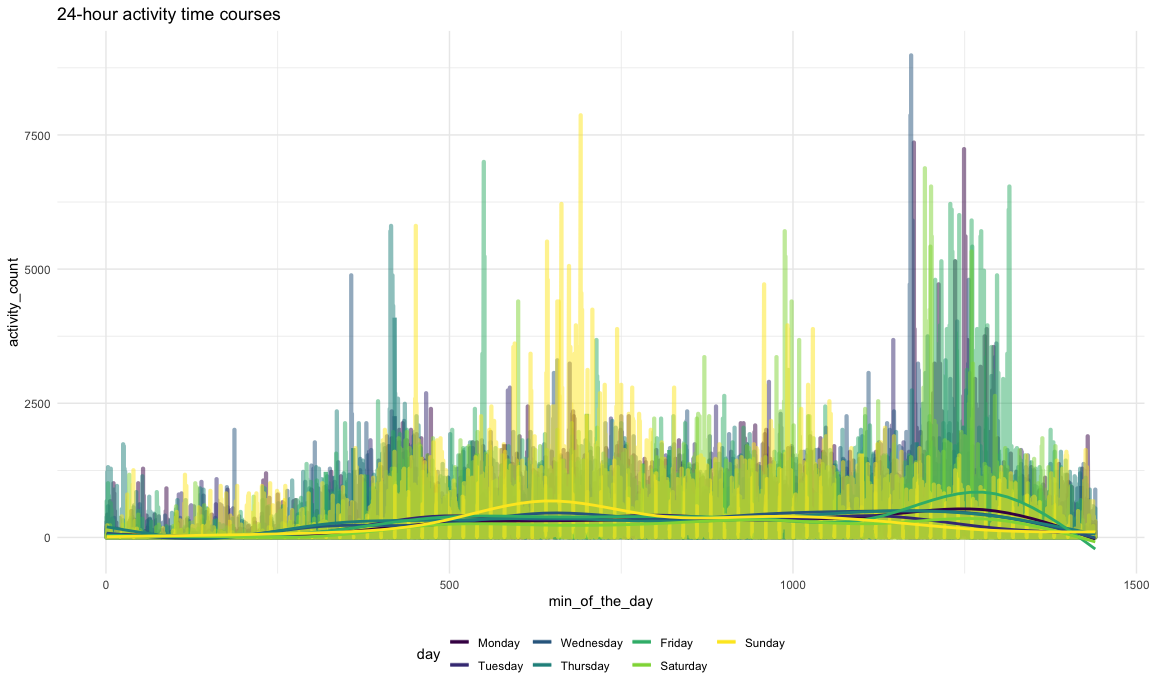
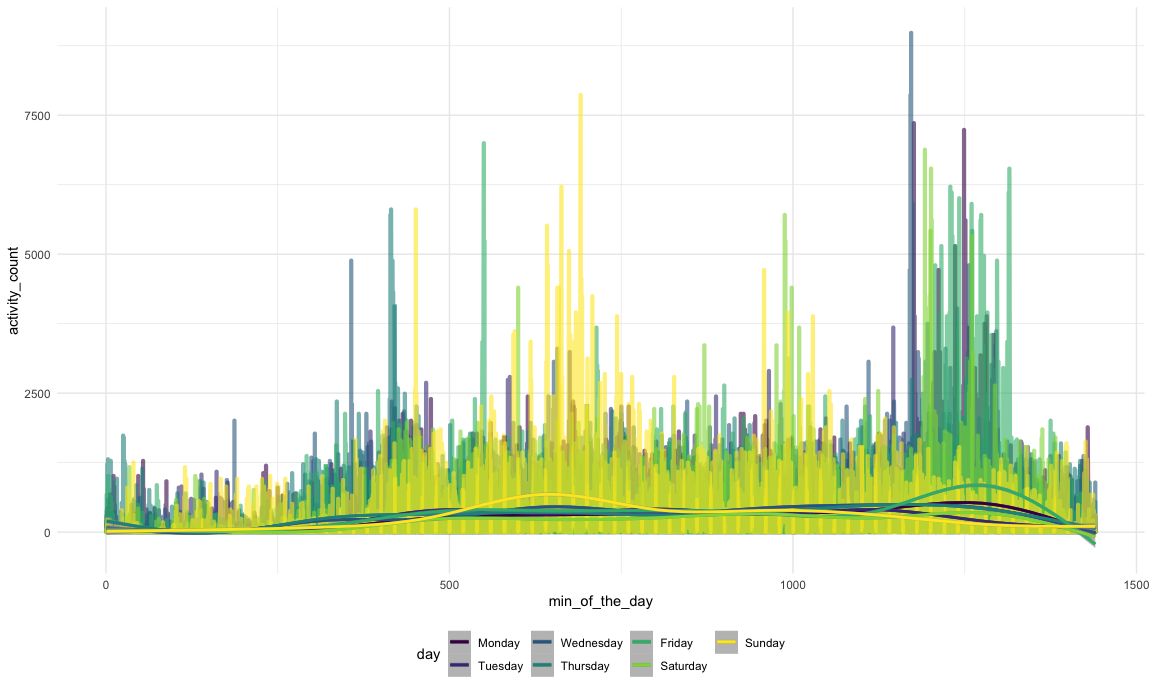
problem 3: plotting

diff --git a/p8105_hw3_lmt2203.md b/p8105_hw3_lmt2203.md
@@ -7,14 +7,14 @@ Linh Tran
 library(tidyverse)
 ```
 
-    ## ── Attaching packages ───────────────────────────────────────────────────────────────────────────────────────────────────────── tidyverse 1.3.0 ──
+    ## ── Attaching packages ────────────────────────────────────────────────────────────────────────────────────────── tidyverse 1.3.0 ──
 
     ## ✓ ggplot2 3.3.2     ✓ purrr   0.3.4
     ## ✓ tibble  3.0.3     ✓ dplyr   1.0.2
     ## ✓ tidyr   1.1.2     ✓ stringr 1.4.0
     ## ✓ readr   1.3.1     ✓ forcats 0.5.0
 
-    ## ── Conflicts ──────────────────────────────────────────────────────────────────────────────────────────────────────────── tidyverse_conflicts() ──
+    ## ── Conflicts ───────────────────────────────────────────────────────────────────────────────────────────── tidyverse_conflicts() ──
     ## x dplyr::filter() masks stats::filter()
     ## x dplyr::lag()    masks stats::lag()
 
@@ -176,7 +176,7 @@ accel_df = read_csv("./data/accel_data.csv") %>%
     values_to = "activity_count"
   ) %>% 
   mutate(day = factor(day),
-         day = fct_relevel(day, c("Monday", "Tuesday", "Wednesday", "Thursday", "Friday", "Saturday", "Sunday"))) %>% 
+         day = forcats::fct_relevel(day, c("Monday", "Tuesday", "Wednesday", "Thursday", "Friday", "Saturday", "Sunday"))) %>% 
   mutate(wd_or_wknd = case_when(
         day %in% c("Monday", "Tuesday", "Wednesday", "Thursday", "Friday") ~ "weekday",
         day %in% c("Saturday", "Sunday") ~ "weekend",
@@ -214,83 +214,84 @@ accel_df
     ## 10     1      1 Friday             10           43.0 weekday   
     ## # … with 50,390 more rows
 
-#### Aggregate across minutes to create a total activity variable for each day, and create a table showing these totals. Any trends?
+The dataset contains 50400 observations of 6 variables, including
+*week*, *day\_id*, *min\_of\_the\_day* show each minute of the day for
+the 5 weeks that data were collected, *activity\_count* for each minute,
+and *wd\_or\_wknd* variable that tells you if a given day is weekday or
+weekend.
 
-``` r
-total_activity_table = 
-  accel_df %>% 
-  group_by(week, day_id, day) %>% 
-  summarize(total_activity_each_day = sum(activity_count)) %>% 
-  knitr::kable()
-```
-
-    ## `summarise()` regrouping output by 'week', 'day_id' (override with `.groups` argument)
+#### Table showing total activity for each day of the 5 weeks
 
 ``` r
 accel_df %>% 
-  group_by(week, day_id, day) %>% 
+  group_by(week, day) %>% 
   summarize(total_activity_each_day = sum(activity_count)) %>% 
   pivot_wider(
     names_from = day,
     values_from = total_activity_each_day) %>% 
-   knitr::kable(digit = 1)
+   knitr::kable(digit = 1) 
 ```
 
-    ## `summarise()` regrouping output by 'week', 'day_id' (override with `.groups` argument)
+    ## `summarise()` regrouping output by 'week' (override with `.groups` argument)
 
-| week | day\_id |   Friday |   Monday | Saturday | Sunday | Thursday |  Tuesday | Wednesday |
-| ---: | ------: | -------: | -------: | -------: | -----: | -------: | -------: | --------: |
-|    1 |       1 | 480542.6 |       NA |       NA |     NA |       NA |       NA |        NA |
-|    1 |       2 |       NA |  78828.1 |       NA |     NA |       NA |       NA |        NA |
-|    1 |       3 |       NA |       NA |   376254 |     NA |       NA |       NA |        NA |
-|    1 |       4 |       NA |       NA |       NA | 631105 |       NA |       NA |        NA |
-|    1 |       5 |       NA |       NA |       NA |     NA | 355923.6 |       NA |        NA |
-|    1 |       6 |       NA |       NA |       NA |     NA |       NA | 307094.2 |        NA |
-|    1 |       7 |       NA |       NA |       NA |     NA |       NA |       NA |    340115 |
-|    2 |       8 | 568839.0 |       NA |       NA |     NA |       NA |       NA |        NA |
-|    2 |       9 |       NA | 295431.0 |       NA |     NA |       NA |       NA |        NA |
-|    2 |      10 |       NA |       NA |   607175 |     NA |       NA |       NA |        NA |
-|    2 |      11 |       NA |       NA |       NA | 422018 |       NA |       NA |        NA |
-|    2 |      12 |       NA |       NA |       NA |     NA | 474048.0 |       NA |        NA |
-|    2 |      13 |       NA |       NA |       NA |     NA |       NA | 423245.0 |        NA |
-|    2 |      14 |       NA |       NA |       NA |     NA |       NA |       NA |    440962 |
-|    3 |      15 | 467420.0 |       NA |       NA |     NA |       NA |       NA |        NA |
-|    3 |      16 |       NA | 685910.0 |       NA |     NA |       NA |       NA |        NA |
-|    3 |      17 |       NA |       NA |   382928 |     NA |       NA |       NA |        NA |
-|    3 |      18 |       NA |       NA |       NA | 467052 |       NA |       NA |        NA |
-|    3 |      19 |       NA |       NA |       NA |     NA | 371230.0 |       NA |        NA |
-|    3 |      20 |       NA |       NA |       NA |     NA |       NA | 381507.0 |        NA |
-|    3 |      21 |       NA |       NA |       NA |     NA |       NA |       NA |    468869 |
-|    4 |      22 | 154049.0 |       NA |       NA |     NA |       NA |       NA |        NA |
-|    4 |      23 |       NA | 409450.0 |       NA |     NA |       NA |       NA |        NA |
-|    4 |      24 |       NA |       NA |     1440 |     NA |       NA |       NA |        NA |
-|    4 |      25 |       NA |       NA |       NA | 260617 |       NA |       NA |        NA |
-|    4 |      26 |       NA |       NA |       NA |     NA | 340291.0 |       NA |        NA |
-|    4 |      27 |       NA |       NA |       NA |     NA |       NA | 319568.0 |        NA |
-|    4 |      28 |       NA |       NA |       NA |     NA |       NA |       NA |    434460 |
-|    5 |      29 | 620860.0 |       NA |       NA |     NA |       NA |       NA |        NA |
-|    5 |      30 |       NA | 389080.0 |       NA |     NA |       NA |       NA |        NA |
-|    5 |      31 |       NA |       NA |     1440 |     NA |       NA |       NA |        NA |
-|    5 |      32 |       NA |       NA |       NA | 138421 |       NA |       NA |        NA |
-|    5 |      33 |       NA |       NA |       NA |     NA | 549658.0 |       NA |        NA |
-|    5 |      34 |       NA |       NA |       NA |     NA |       NA | 367824.0 |        NA |
-|    5 |      35 |       NA |       NA |       NA |     NA |       NA |       NA |    445366 |
+| week |   Monday |  Tuesday | Wednesday | Thursday |   Friday | Saturday | Sunday |
+| ---: | -------: | -------: | --------: | -------: | -------: | -------: | -----: |
+|    1 |  78828.1 | 307094.2 |    340115 | 355923.6 | 480542.6 |   376254 | 631105 |
+|    2 | 295431.0 | 423245.0 |    440962 | 474048.0 | 568839.0 |   607175 | 422018 |
+|    3 | 685910.0 | 381507.0 |    468869 | 371230.0 | 467420.0 |   382928 | 467052 |
+|    4 | 409450.0 | 319568.0 |    434460 | 340291.0 | 154049.0 |     1440 | 260617 |
+|    5 | 389080.0 | 367824.0 |    445366 | 549658.0 | 620860.0 |     1440 | 138421 |
 
-#### Make a single-panel plot that shows 24-hour activity time courses for each day and use color to indicate day of the week. Describe in words any patterns or conclusions you can make based on this graph
+We can see from the table that Saturdays seem to have the widest range
+of activity count, from 1440 to 607175 while Tuesdays-Thursdays have a
+relatively small variance in activity count. The least activity count is
+1440 on Saturdays of week 4 and week 5 while the highest activity count
+is 685910 on Monday of week 3. Overall, the man whose accelerometer data
+we are looking at are consistenly active during midweek.
 
-minute x-axis, activity\_count y-axis
+#### Single-panel plot that shows 24-hour activity time courses for each day
 
 ``` r
 accel_df %>%  
   ggplot(aes(x = min_of_the_day, y = activity_count, color = day)) +
-  geom_line(size = 1.5, alpha = 0.5) +  
-  geom_smooth(se = FALSE) +
-  labs(title = "24-hour activity time courses")
+  geom_line(size = 1.5, alpha = .6) +  
+  geom_smooth() +
+  stat_smooth()
 ```
 
     ## `geom_smooth()` using method = 'gam' and formula 'y ~ s(x, bs = "cs")'
+    ## `geom_smooth()` using method = 'gam' and formula 'y ~ s(x, bs = "cs")'
 
 <img src="p8105_hw3_lmt2203_files/figure-gfm/unnamed-chunk-8-1.png" width="90%" />
+
+``` r
+  labs(title = "24-hour activity time courses",
+       x = "Minute of the day",
+       y = "Activity count",
+       caption = "5-week activity count from a 63 year-old male, BMI = 25, diagnosed with congestive heart failure") 
+```
+
+    ## $x
+    ## [1] "Minute of the day"
+    ## 
+    ## $y
+    ## [1] "Activity count"
+    ## 
+    ## $title
+    ## [1] "24-hour activity time courses"
+    ## 
+    ## $caption
+    ## [1] "5-week activity count from a 63 year-old male, BMI = 25, diagnosed with congestive heart failure"
+    ## 
+    ## attr(,"class")
+    ## [1] "labels"
+
+Based on this graph we could see that the man generally has low activity
+at night time (midnight to \~6-7am), then higher activity at day time
+and drop back down in the evening. He is highly active during the day on
+Sunday, and much more active late evening on Friday/Saturday. Other days
+of the week show lots of overlapping, meaning he is more routine during
+mid-week.
 
 # Problem 3
 
@@ -301,36 +302,125 @@ library(p8105.datasets)
 data("ny_noaa")
 ```
 
-The dataset has 7 variables, specifically *id, date, prcp, snow, snwd,
-tmax, tmin* and 2595176 observations.
+The NY NOAA dataset contains data collectd from all New York state
+weather stations from January 1, 1981 to December 31, 2010. It has
+2595176 observations of 7 variables, specifically *id, date, prcp, snow,
+snwd, tmax, tmin*. Variable ID show weather station ID; prcp, snow,
+snwd, tmax, tmin are precipitation (mm), snowfall(mm), snow depth(mm),
+maximum temperature(tenths of degrees C), and minimum temperature(tenths
+of degrees C) of a given date, respectively. There are lots of missing
+values: the number of missing values for precipitation, snowfall, snow
+depth, min temp, max temp are 145838, 381221, 591786, 1134358, 1134420
+respectively.
 
 #### Data cleaning
 
 ``` r
-ny_noaa_tidy = 
+ny_noaa_df = 
   ny_noaa %>% 
-  separate(date, into = c("year", "month", "day"), convert = TRUE)
+  separate(date, into = c("year", "month", "day"), sep = "-", convert = TRUE) %>% 
+  mutate(
+    tmax = as.numeric(tmax)/10,
+    tmin = as.numeric(tmin)/10,
+    prcp = as.numeric(prcp),
+    snow = as.numeric(snow),
+    snwd = as.numeric(snwd))
 
-ny_noaa_tidy
+snow_count = 
+  ny_noaa_df %>% 
+  drop_na() %>% 
+  group_by(snow) %>% 
+  summarize(snow_count = n()) %>% 
+  arrange(desc(snow_count))
 ```
 
-    ## # A tibble: 2,595,176 x 9
-    ##    id           year month   day  prcp  snow  snwd tmax  tmin 
-    ##    <chr>       <int> <int> <int> <int> <int> <int> <chr> <chr>
-    ##  1 US1NYAB0001  2007    11     1    NA    NA    NA <NA>  <NA> 
-    ##  2 US1NYAB0001  2007    11     2    NA    NA    NA <NA>  <NA> 
-    ##  3 US1NYAB0001  2007    11     3    NA    NA    NA <NA>  <NA> 
-    ##  4 US1NYAB0001  2007    11     4    NA    NA    NA <NA>  <NA> 
-    ##  5 US1NYAB0001  2007    11     5    NA    NA    NA <NA>  <NA> 
-    ##  6 US1NYAB0001  2007    11     6    NA    NA    NA <NA>  <NA> 
-    ##  7 US1NYAB0001  2007    11     7    NA    NA    NA <NA>  <NA> 
-    ##  8 US1NYAB0001  2007    11     8    NA    NA    NA <NA>  <NA> 
-    ##  9 US1NYAB0001  2007    11     9    NA    NA    NA <NA>  <NA> 
-    ## 10 US1NYAB0001  2007    11    10    NA    NA    NA <NA>  <NA> 
-    ## # … with 2,595,166 more rows
+    ## `summarise()` ungrouping output (override with `.groups` argument)
 
-Last part: use `patchwork`
+``` r
+snow_count
+```
 
-#### Make a two-panel plot the average
+    ## # A tibble: 248 x 2
+    ##     snow snow_count
+    ##    <dbl>      <int>
+    ##  1     0    1112758
+    ##  2    25      15809
+    ##  3    13      12460
+    ##  4    51       9252
+    ##  5     5       5669
+    ##  6     8       5380
+    ##  7    76       5296
+    ##  8     3       5276
+    ##  9    38       5050
+    ## 10   102       3386
+    ## # … with 238 more rows
 
-x = tmin, y = tmax
+The most commonly observed value for snowfall is **0**, with 1112758
+days reported no snow. This seems reasonable considering for the
+majority time of a year, New York doesn’t have any snow. The second most
+common value is 25 and third most common is 13.
+
+#### Two-panel plot showing the average max temperature in January and July in each station across years
+
+``` r
+jan_july_tmax = 
+  ny_noaa_df %>% 
+  filter(month %in% c("1", "7")) %>%
+  group_by(id, year, month) %>% 
+  summarize(mean_tmax = mean(tmax, na.rm = TRUE)) %>% 
+  mutate(month = recode(month, `1` = "January", `7` = "July"))
+```
+
+    ## `summarise()` regrouping output by 'id', 'year' (override with `.groups` argument)
+
+``` r
+ggplot(jan_july_tmax, aes(x = year, y = mean_tmax, group = id, color = id)) +
+  geom_point() +
+  geom_path() +
+  facet_grid(~ month) +
+  labs(title = "Average max temperature for January and July across stations and years",
+       x = "Year",
+       y = "Average Max Temperature (C)") +
+  theme(axis.text.x = element_text(angle = 90, vjust = 0.5, hjust = 1)) +
+  theme(legend.position = "none")
+```
+
+<img src="p8105_hw3_lmt2203_files/figure-gfm/unnamed-chunk-11-1.png" width="90%" />
+
+Average max temperature in January ranging from -10C to 10C is lower
+than average max temperature in July, which is in the 20-30 degree
+Celcius range. There are several noticeable outliers, particularly
+January of 1982 where the average max temperature is much lower than
+-10C and July of 1987 where average max temperature is unusually low
+(\~13-14C).
+
+#### Two-panel plot showing (1) tmax vs tmin for full dataset and (2) distribution of snowfall greater than 0 and less than 100
+
+``` r
+tmax_tmin_plot = 
+  ny_noaa_df %>% 
+  drop_na(tmax, tmin) %>% 
+  ggplot(aes(x = tmin, y = tmax)) +
+  geom_density2d() +
+  labs(
+    title = "Maximum vs Minimum Temperatures from 1981 to 2010",
+    x = "Minimum Temperature",
+    y = "Maximum Temperature")
+  
+snow_fall_plot =
+  ny_noaa_df %>% 
+  filter(snow > 0 & snow < 100) %>% 
+  ggplot(aes(x = snow, y = as.factor(year))) +
+  geom_density_ridges(alpha = .3, adjust = .5) +
+  labs(
+    title = "Distribution of Snowfall from 1981 to 2010",
+    x = "Snowfall (mm)",
+    y = "Year") +
+  scale_x_continuous(breaks = c(0, 25, 50, 75, 100, 125, 150, 175))
+
+tmax_tmin_plot / snow_fall_plot
+```
+
+    ## Picking joint bandwidth of 3.76
+
+<img src="p8105_hw3_lmt2203_files/figure-gfm/unnamed-chunk-12-1.png" width="90%" />
